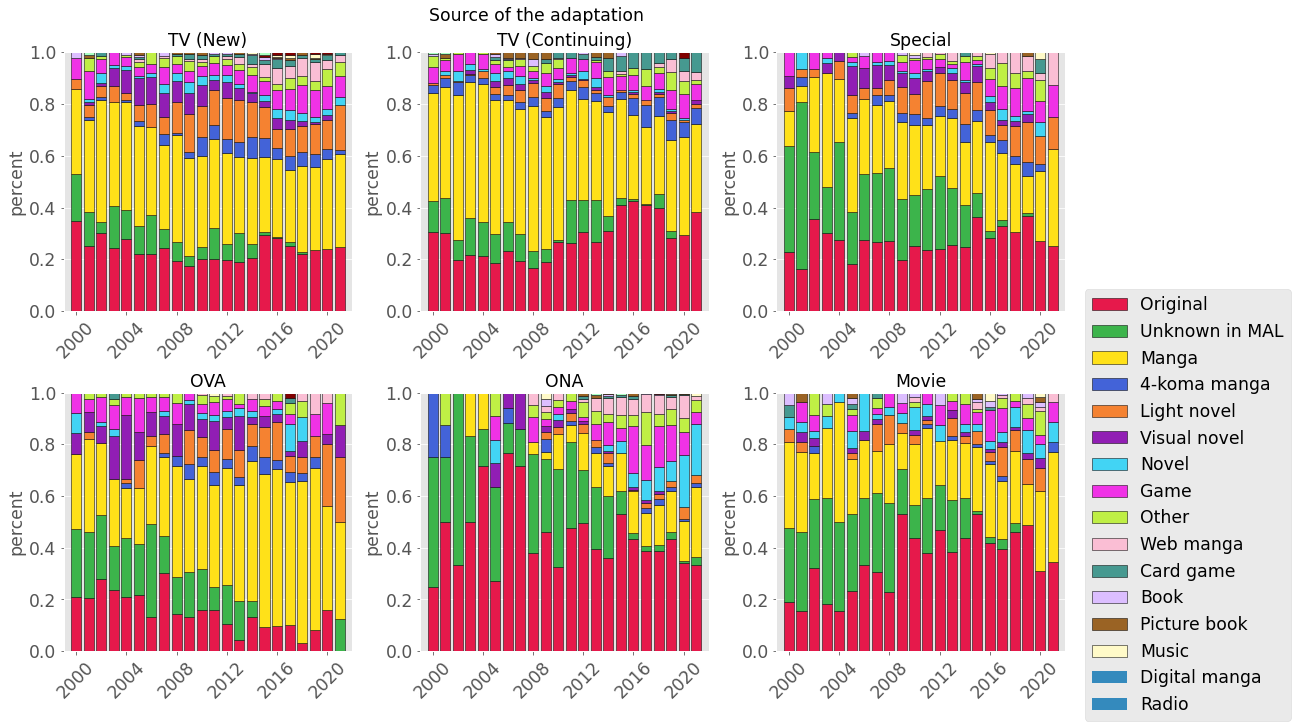
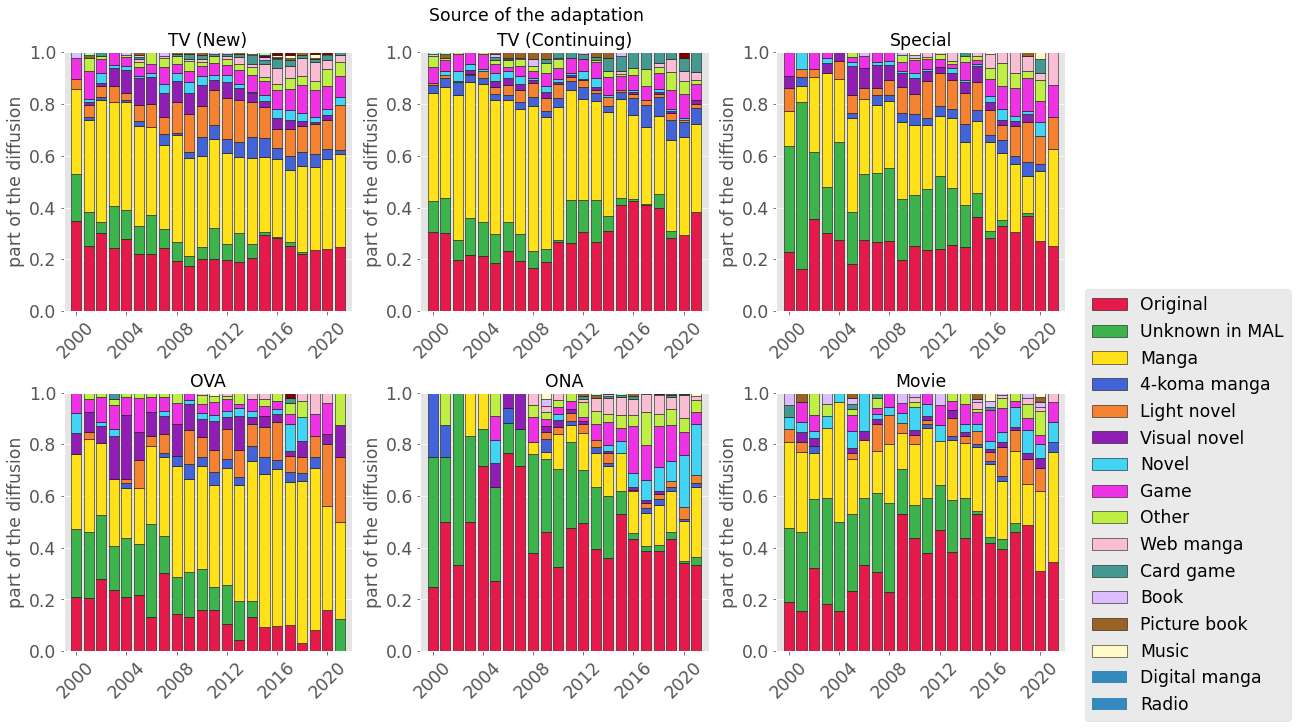
Changing legend handling

diff --git a/MyAnalizer.py b/MyAnalizer.py
@@ -12,7 +12,7 @@ import time
 import matplotlib.pyplot as plt
 from matplotlib import style
 import matplotlib.ticker as ticker
-import matplotlib.colors as colors
+from matplotlib.patches import Patch
 
 import seaborn as sb
 
@@ -47,17 +47,19 @@ def production(df,min_year,max_year,anitypes,color_list): #To vizualize the sum 
     bottom=pd.DataFrame({'years':years,'cumul':[0]*len(years)})#this data frame will accumulate the value to build the stacked barplot
     ymax=0
     
-    picked_colord=color_list[0:len(anitypes)+1]
+    picked_colors=color_list[0:len(anitypes)+1]
     
     for season,ax in zip(seasons,axes): #Season and plot goes together so I zip them
         df_season=select_years[select_years['release-season']==season].sort_values('release-year') #reducing the DataFrame to the season studied
         bottom['cumul']=[0]*len(years) #initialize bottom for each season
         print('--------------'+season)
         
-        for anime_type,color in zip(anitypes,picked_colord):
+        for anime_type,color in zip(anitypes,picked_colors):
+            
             df_type=df_season[df_season['type']==anime_type]
             df_type.reset_index(drop=True, inplace=True)
             print(anime_type)
+            print(color)
             
             if len(df_type)!=len(bottom):
                 temp_bottom=pd.merge(bottom,df_type,left_on='years',right_on='release-year') #if there is a lack of type of anime for a season, I reduce the bottom dataframe to an extract of it (if not shape mis shape between count and bottom)
@@ -126,11 +128,22 @@ def sauce(df,min_year,max_year,anitypes,color_list):
     select_years=pd.merge(select_years,select_sum,on=('release-year','type')) 
     select_years['percent']=select_years['count']/select_years['sum']
     
+    select_years.loc[select_years['percent']<0.05,'source-material']='Other'
+    select_years=select_years.groupby(['release-year','type','source-material'])['percent'].sum().reset_index(name='percent')
+    
+    
     #build a descending list by percent of source material
     sauces=select_years.sort_values('percent',ascending=False)['source-material'].unique()    
        
-    picked_colors=color_list[0:len(sauces)+1]
-
+    picked_colors=color_list[0:len(sauces)]
+    print(picked_colors)
+    
+    custom_patches=[]
+    
+    #avoid colors mismatch when getting legend
+    for color in picked_colors:
+        custom_patches.append(Patch(facecolor=color, edgecolor='b')) 
+    
     years=np.linspace(select_years['release-year'].min(),select_years['release-year'].max(),select_years['release-year'].max()-select_years['release-year'].min()+1).astype(int) #I want a list of the years
 
 
@@ -156,7 +169,7 @@ def sauce(df,min_year,max_year,anitypes,color_list):
                     ax.bar(df_sauce['release-year'],df_sauce['percent'],label=sauce,bottom=bottom['cumul'],color=color,edgecolor='black')
                     bottom['cumul']=bottom['cumul']+df_sauce['percent'] #way easier when each year are full
                 
-                ax.set_ylabel('percent',fontsize=font)
+                ax.set_ylabel('part of the diffusion',fontsize=font)
                 ax.xaxis.label.set_size(font)
                 ax.set_title(anime_type,fontsize=font)
                 ax.axis(xmax=select_years['release-year'].max()+1,xmin=select_years['release-year'].min()-1)
@@ -164,10 +177,7 @@ def sauce(df,min_year,max_year,anitypes,color_list):
                 ax.tick_params('y', labelsize=font)
                 ax.axis(ymax=1)
                 ax.ticklabel_format(axis='x', style='plain', useOffset=False) #If I don't do this plt want to put the label to engineering notation
-                ax.xaxis.set_major_locator(ticker.MultipleLocator(base=round((max_year-min_year)/5))) #I want only 5 step for xlabel
-                
-
-    
+                ax.xaxis.set_major_locator(ticker.MultipleLocator(base=round((max_year-min_year)/5))) #I want only 5 step for xlabel             
     
     #differentiating plot for each type or just one type                   
     if len(anitypes)>1:
@@ -180,10 +190,7 @@ def sauce(df,min_year,max_year,anitypes,color_list):
             print('--------------'+anime_type)
             
             stackbarcolor(df_type,sauces,bottom,ax,anime_type)
-            
-        for ax in axes:
-            handles, labels = ax.get_legend_handles_labels() #I store the legend
-                
+                           
     else:
         fig, ax = plt.subplots(1,1,figsize=enlarge_fig) #building a subplot for the one choosen
         df_type=select_years.sort_values('release-year') #reducing the DataFrame to the season studied I need the year to be at the right order for the stacking
@@ -193,11 +200,10 @@ def sauce(df,min_year,max_year,anitypes,color_list):
           
         stackbarcolor(df_type, sauces, bottom, ax,anime_type)
         
-        handles, labels = ax.get_legend_handles_labels() #I store the legend
     
-    fig.suptitle('Source of the adaptation',fontsize=font)          
+    fig.suptitle('Source of the adaptation (if less than 5% -> Other)',fontsize=font)          
     fig.tight_layout()
-    fig.legend(handles, labels, bbox_to_anchor=(1,0.6), loc="upper left",fontsize=font)
+    fig.legend(custom_patches, sauces, bbox_to_anchor=(1,0.6), loc="upper left",fontsize=font)
     return fig
 
 datavalid=False
